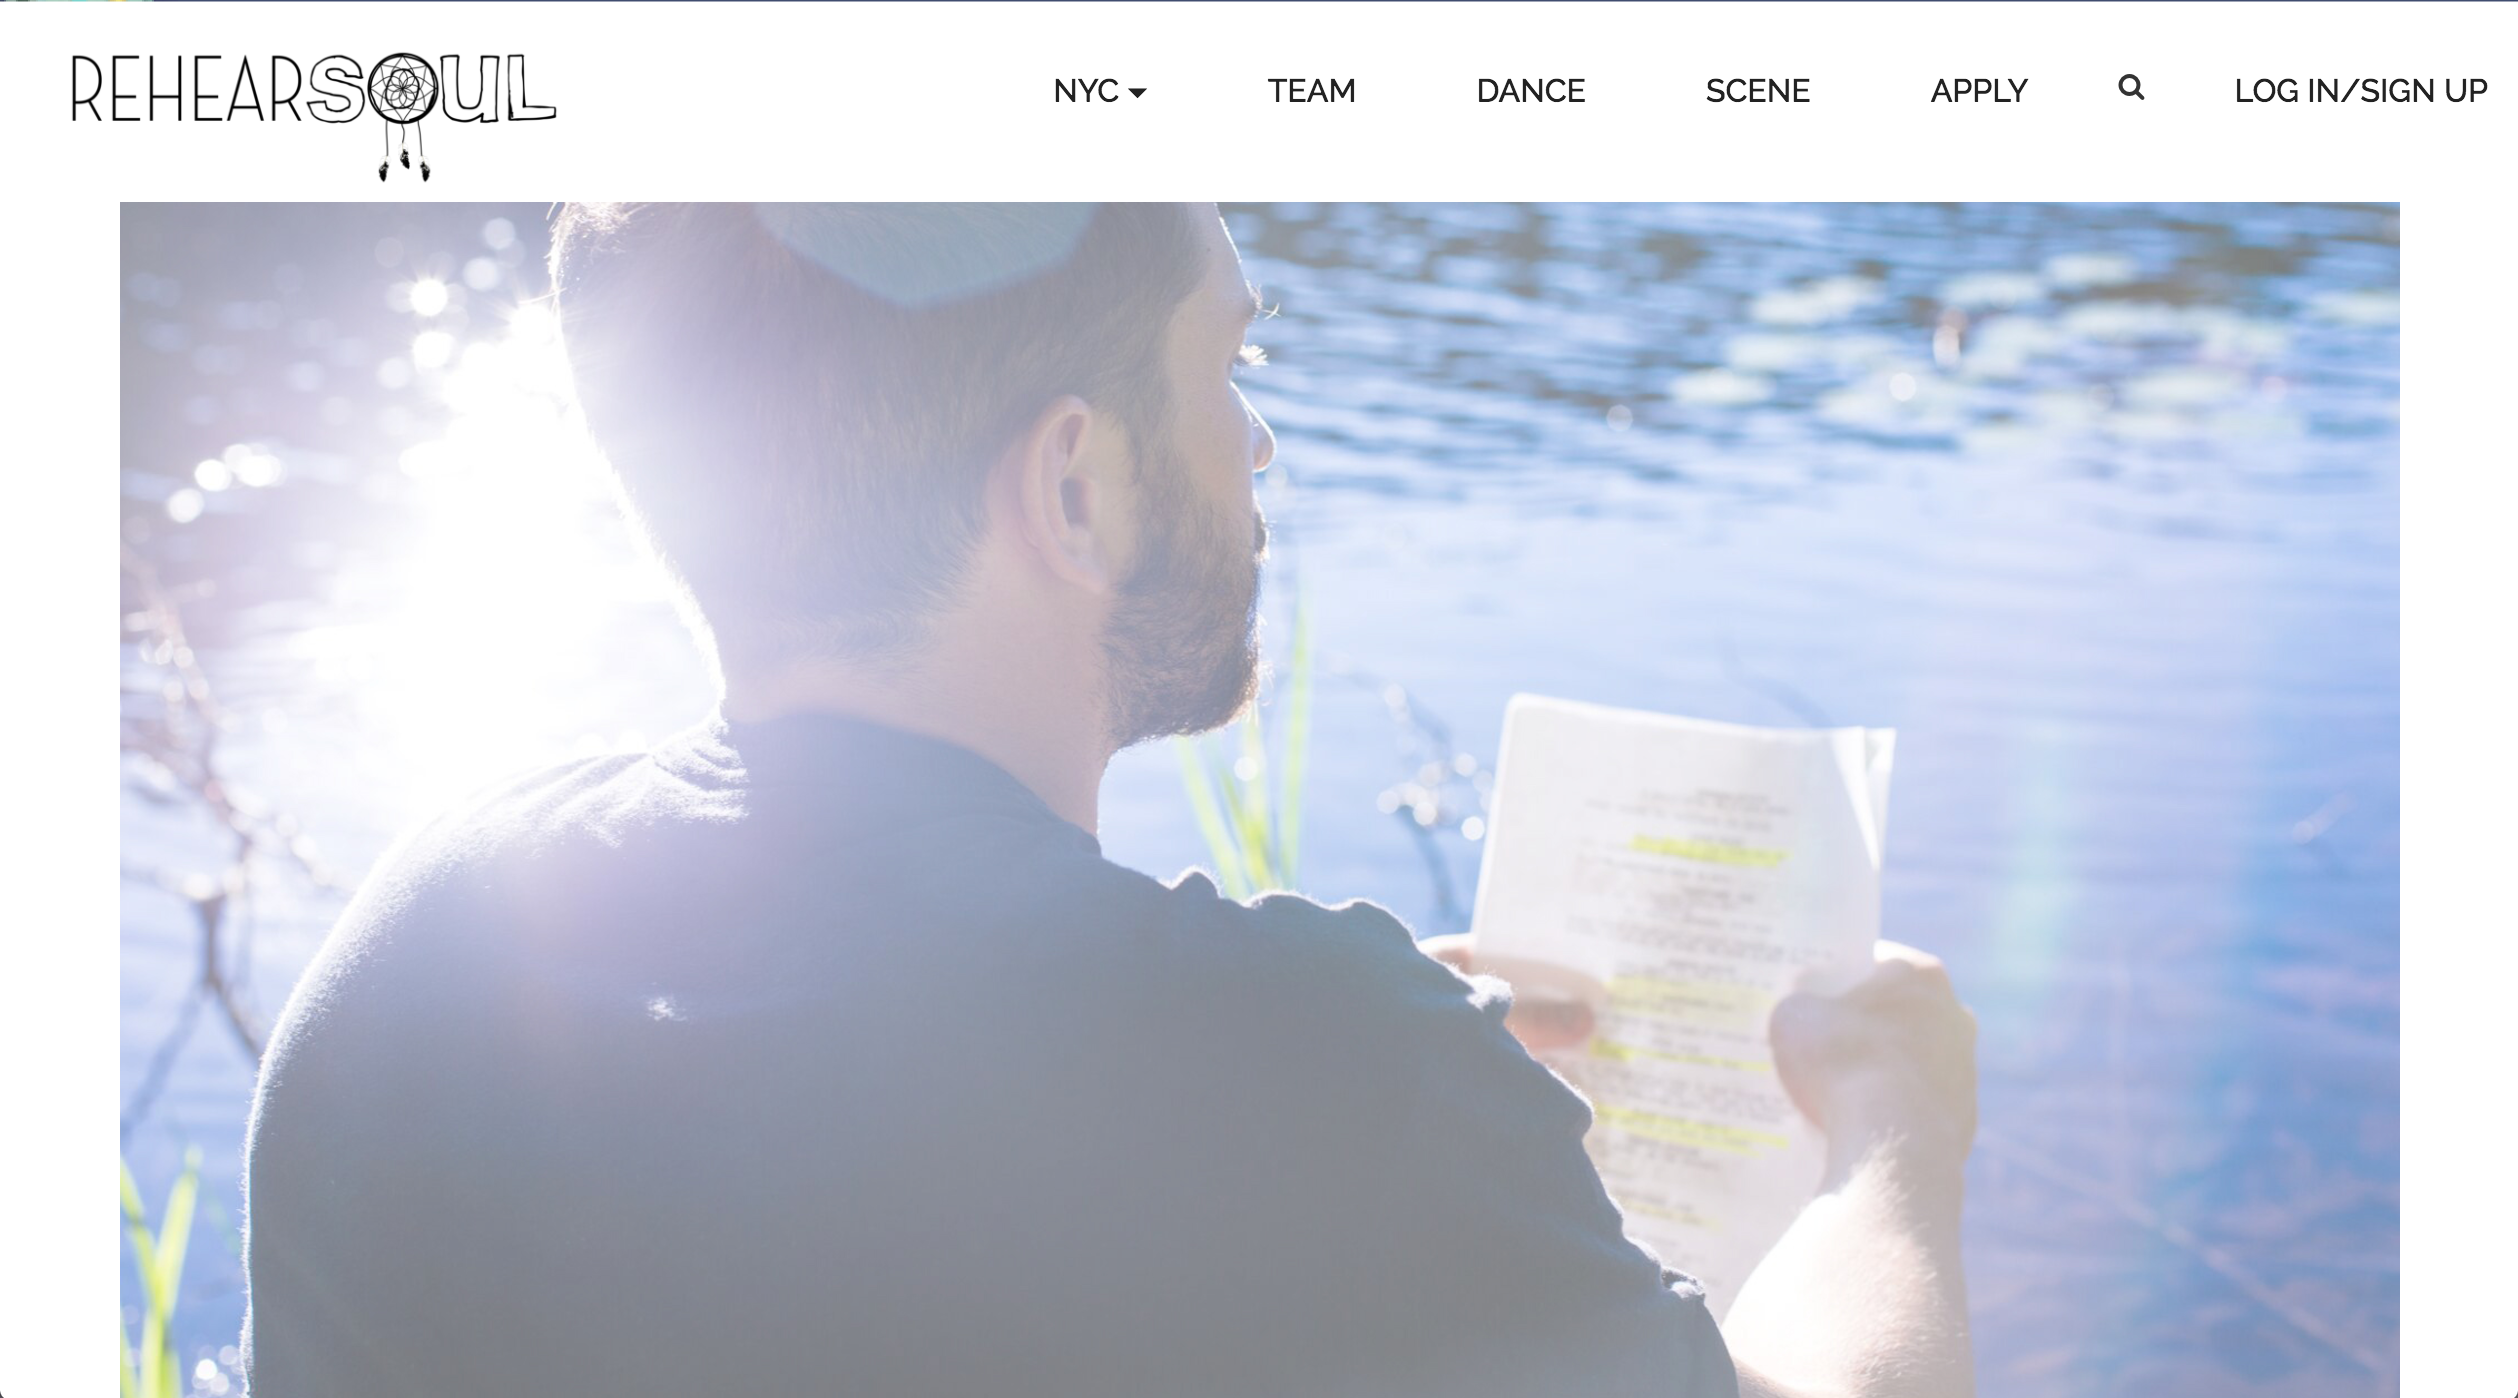
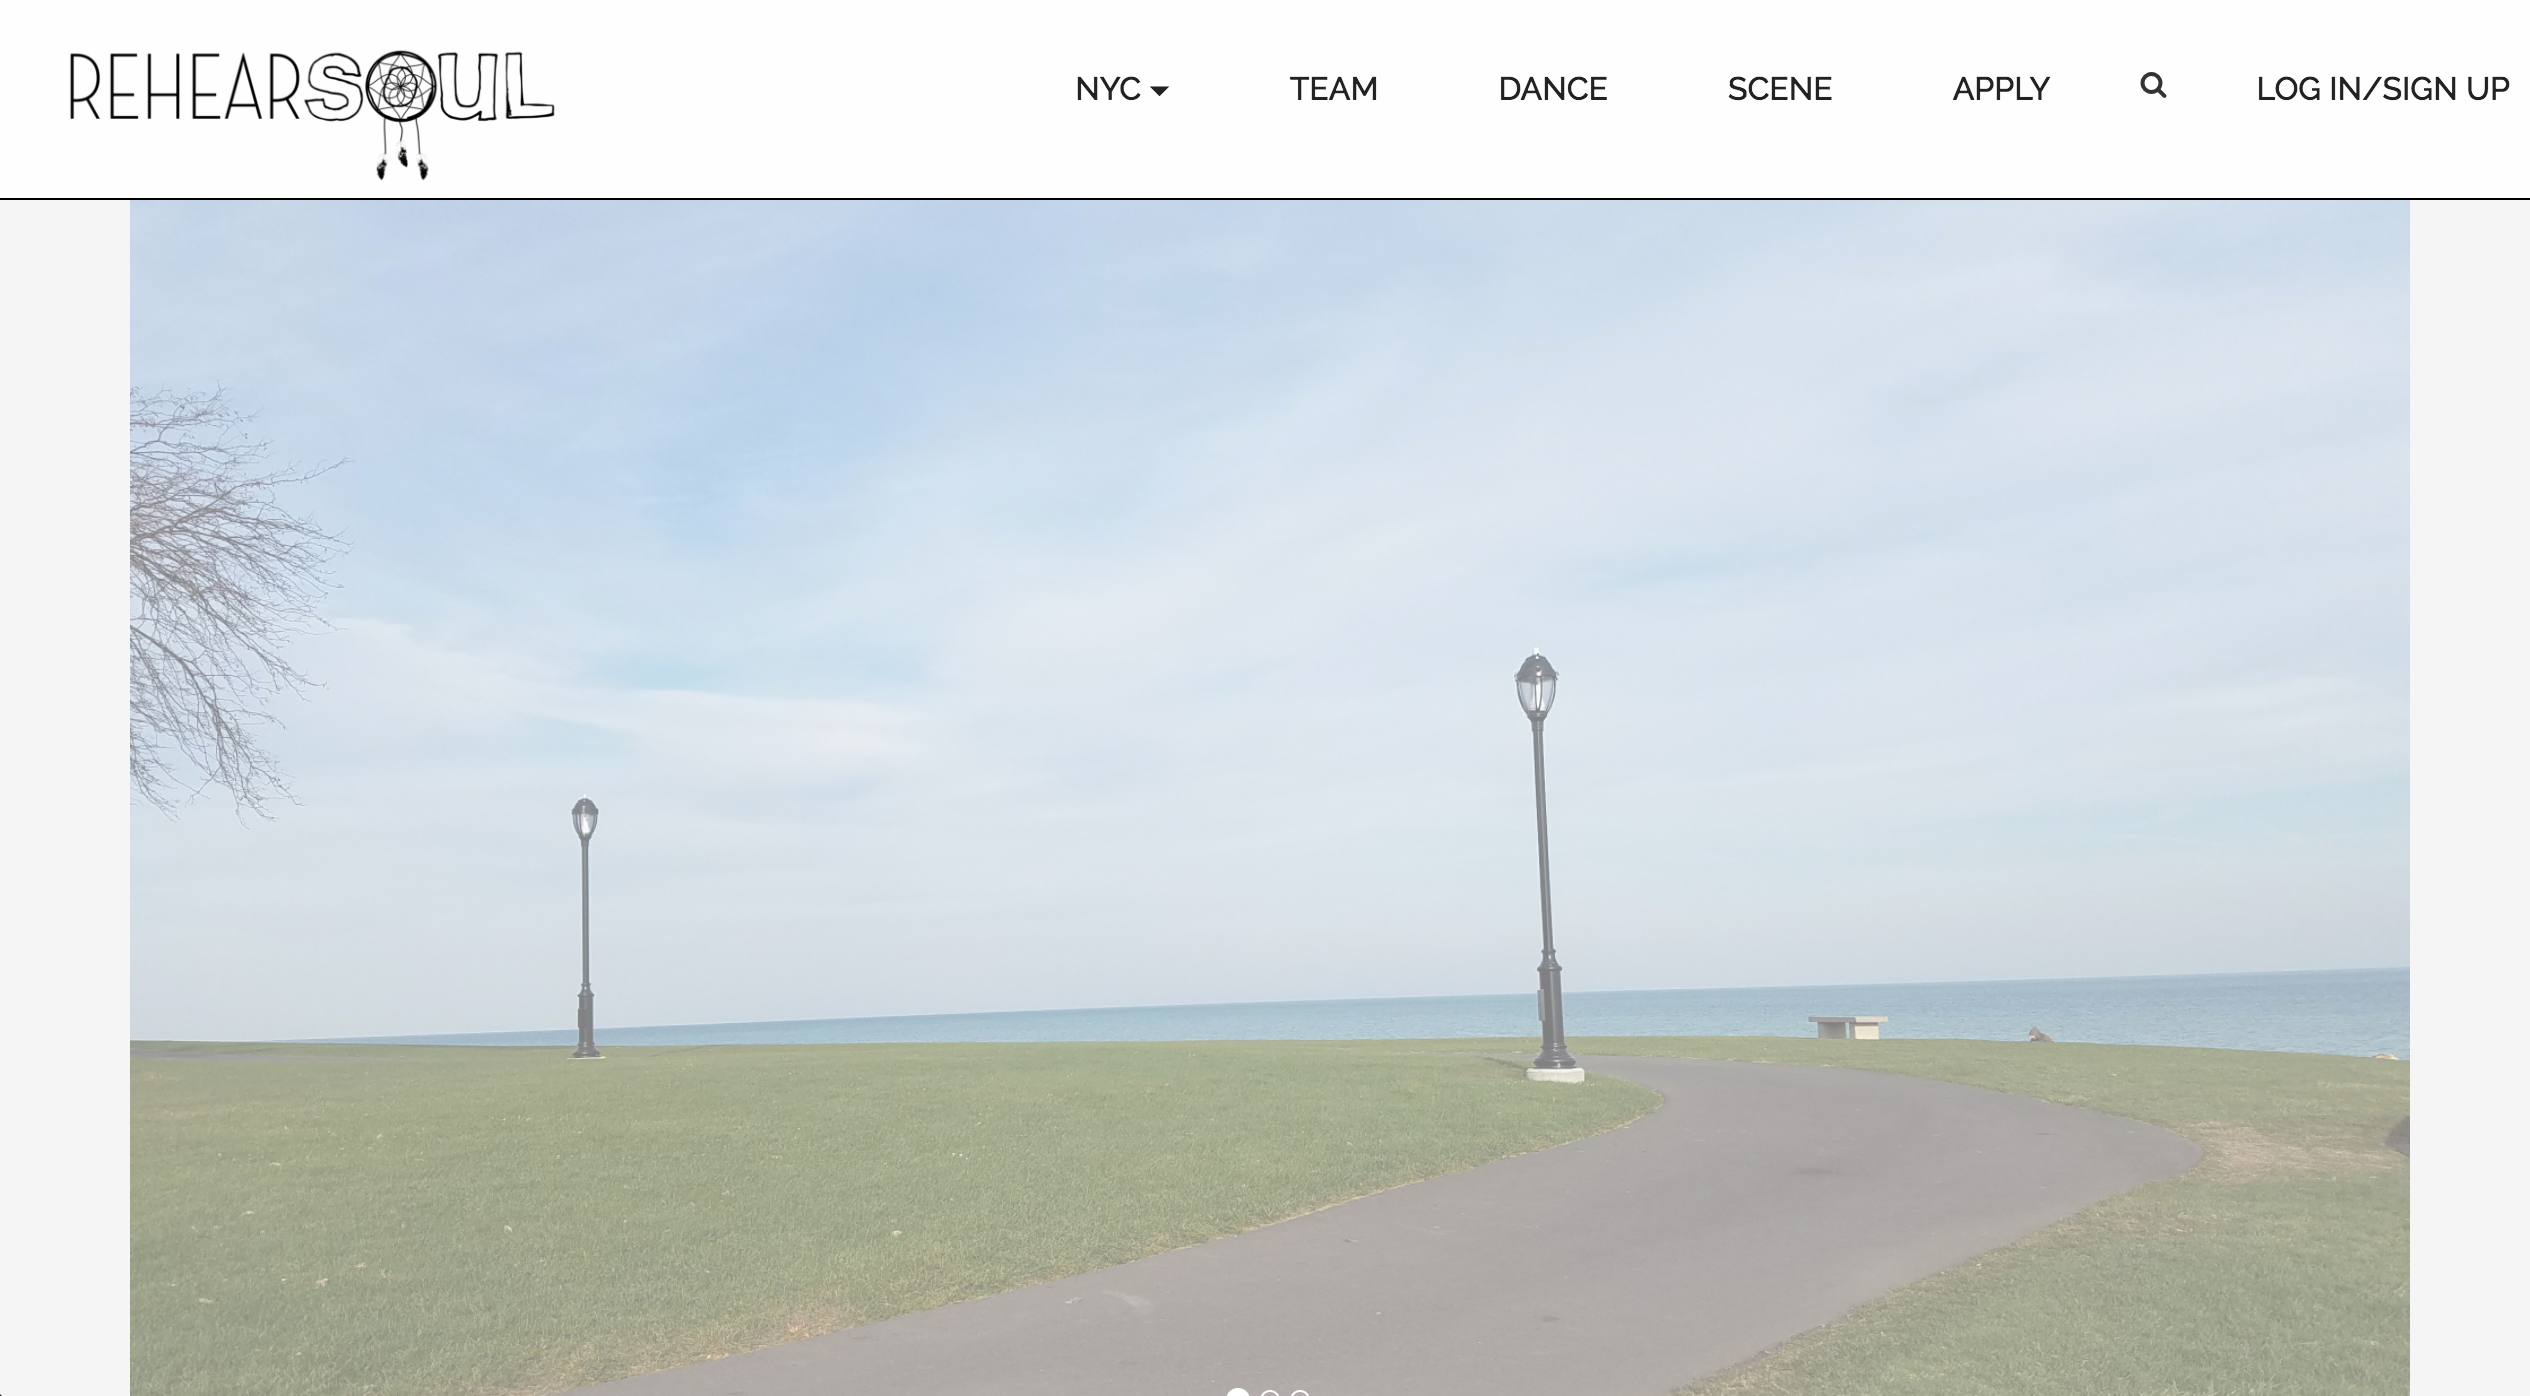
add freelance

diff --git a/sites.html b/sites.html
@@ -115,13 +115,13 @@
                         </a>
                     </div>
                     <div class="col-sm-6 portfolio-item">
-                        <a href="" class="portfolio-link" data-toggle="modal">
+                        <a href="http://dararubin.github.io/freelance" target="new" class="portfolio-link" data-toggle="modal">
                             <div class="caption">
                                 <div class="caption-content">
                                     <p>RehearSoul</p>
                                 </div>
                             </div>
-                            <img src="img/portfolio/rehearsoul3.jpg" class="img-responsive" alt="" style="border: 1px solid black;">
+                            <img src="img/rehearsoul.jpg" class="img-responsive" alt="" style="border: 1px solid black;">
                         </a>
                     </div>
                 </div>
